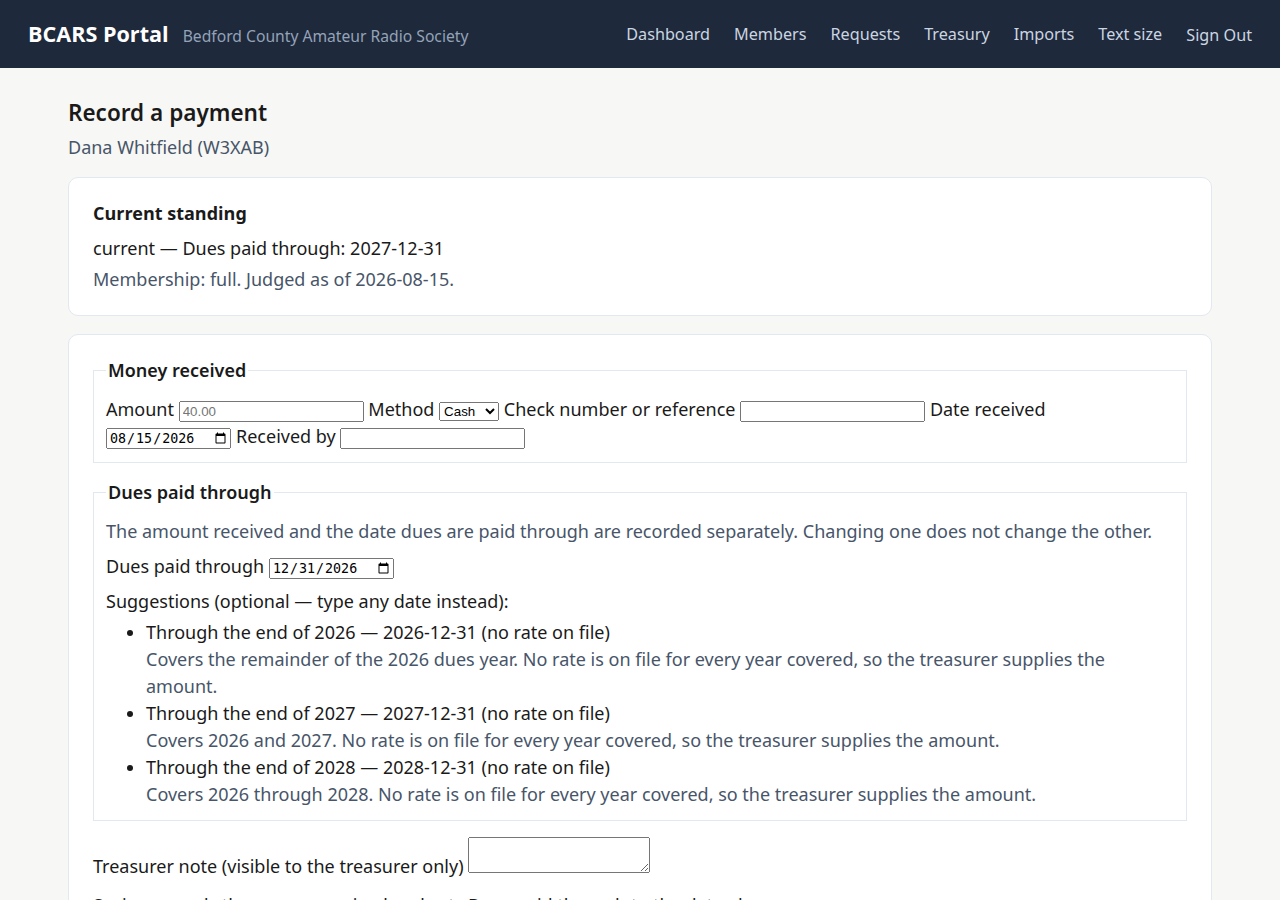
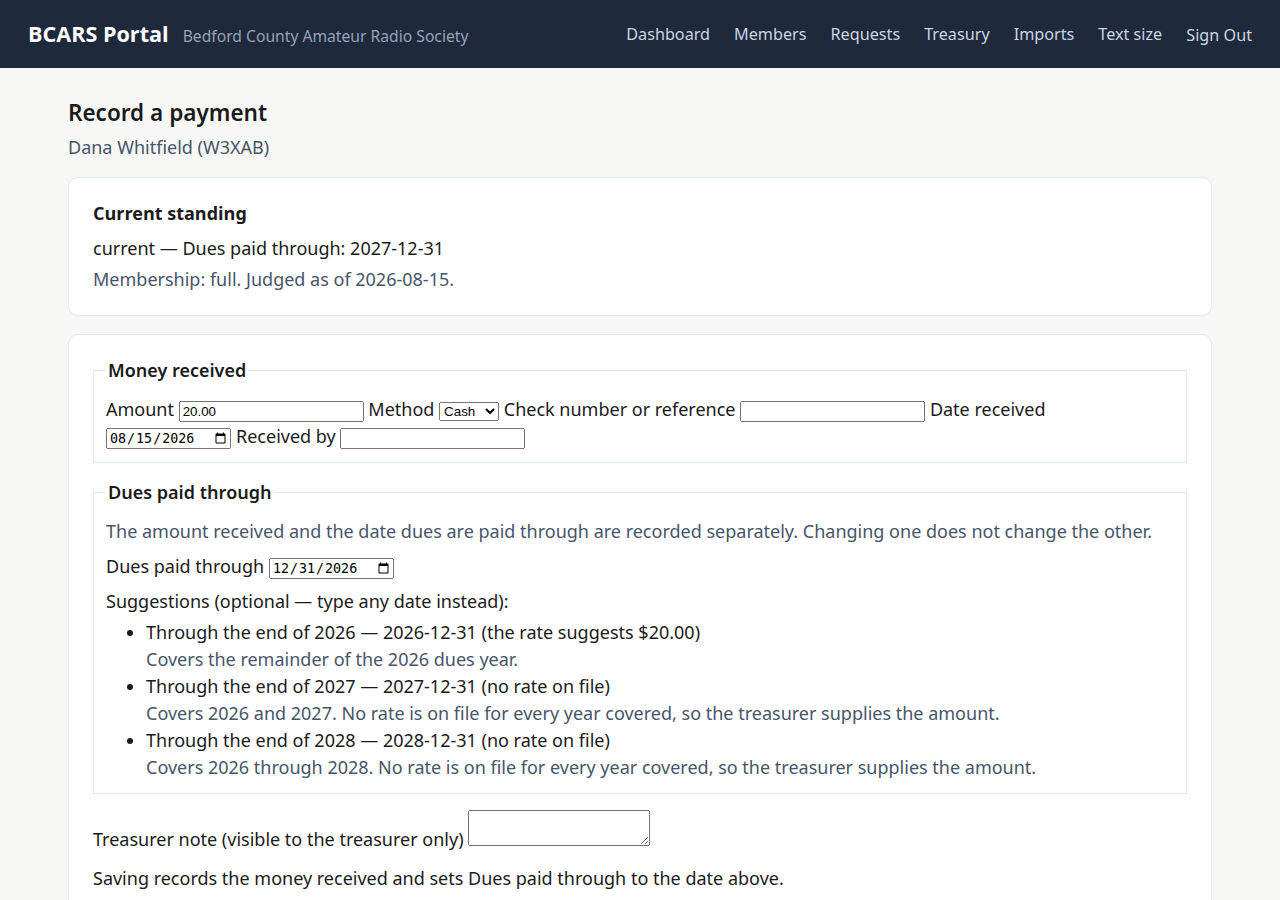
fix(treasury): suggest the configured dues rate, not a literal $40 (i95)
The amount box on the payment grid and the add-a-row form carried
placeholder="40.00" as a literal in the template. Nothing read
dues_rates, so a club whose annual dues are $20 was shown $40 in every
empty amount box — the number a treasurer entering a meeting's takings
reads as "the usual".

The placeholder now comes from the club's configured rate, and is empty
when no rate is configured: a suggestion nobody configured is what caused
this, so the absence of one asks the treasurer to type what they actually
took.

The year is taken from the coverage the batch is prefilling, falling back
to today. A batch made up at a December meeting collects next year's
dues, and next year's rate is the one being taken.

seed-demo now configures BCARS's actual $20 rate. Without it the demo
shows an empty placeholder and a worksheet reading "$not set", so a
reviewer sees neither feature working — the symptom bcars-portal-2za
describes, which this does not otherwise fix.

Mutation-checked: restoring the literal fails the rate assertions, and
ignoring the coverage year fails the December case. The first draft of
these tests passed vacuously by asserting on a page that renders no
amount box at all — the box only exists once the treasurer has searched
for the member they are recording, so the tests now search first.

Claude-Session: https://claude.ai/code/session_01RzWxLHcnAsSpNok5Xey35r

Changed region(s): [[0.0625, 0.6844, 0.875, 0.9956]]

diff --git a/internal/web/templates/batch_detail.html b/internal/web/templates/batch_detail.html
@@ -58,7 +58,7 @@
                         <input type="hidden" name="membership_id" value="{{.MembershipID}}">
                         <input type="hidden" name="idempotency_key" value="{{$.IdempotencyKey}}-{{.MembershipID}}">
                         <input type="text" name="amount" value="{{$.Defaults.Amount}}"
-                               inputmode="decimal" placeholder="40.00" aria-label="Amount for {{.DisplayName}}" required>
+                               inputmode="decimal" placeholder="{{$.Suggested}}" aria-label="Amount for {{.DisplayName}}" required>
                         <select name="method" aria-label="Method for {{.DisplayName}}">
                             <option value="cash">Cash</option>
                             <option value="check">Check</option>
@@ -143,7 +143,7 @@
                         <input type="hidden" name="membership_id" value="{{.MembershipID}}">
                         <input type="hidden" name="idempotency_key" value="{{$.IdempotencyKey}}-{{.MembershipID}}">
                         <input type="text" name="amount" value="{{$.Defaults.Amount}}"
-                               inputmode="decimal" placeholder="40.00" aria-label="Amount" required>
+                               inputmode="decimal" placeholder="{{$.Suggested}}" aria-label="Amount" required>
                         <select name="method" aria-label="Method">
                             <option value="cash">Cash</option>
                             <option value="check">Check</option>

diff --git a/internal/web/batches_test.go b/internal/web/batches_test.go
@@ -6,6 +6,7 @@ import (
 	"strconv"
 	"strings"
 	"testing"
+	"time"
 
 	"github.com/stretchr/testify/assert"
 	"github.com/stretchr/testify/require"
@@ -399,4 +400,84 @@ func visibleProse(html string) string {
 		}
 	}
 	return out.String()
+}
+
+// The amount box's placeholder is read as "the usual amount". It used to be a
+// literal 40.00 in the template, which no configuration produced: a club whose
+// annual dues are $20 was shown $40 in every empty box on the grid and on the
+// add-a-row form (bcars-portal-i95).
+
+// setDuesRate configures the club's annual rate for a year, the way the rate
+// screen does.
+func setDuesRate(t *testing.T, e *testEnv, year int64, cents int64) {
+	t.Helper()
+	_, err := e.h.db.Exec(
+		`INSERT INTO dues_rates (year, amount_cents, set_by, set_at)
+		 VALUES (?, ?, 1, strftime('%Y-%m-%dT%H:%M:%fZ','now'))
+		 ON CONFLICT(year) DO UPDATE SET amount_cents = excluded.amount_cents`,
+		year, cents)
+	require.NoError(t, err)
+}
+
+func TestTheAmountPlaceholderIsTheConfiguredDuesRate(t *testing.T) {
+	for _, tc := range []struct {
+		name  string
+		cents int64
+		want  string
+	}{
+		{"a twenty dollar club", 2000, "20.00"},
+		{"a thirty-five dollar club", 3500, "35.00"},
+	} {
+		t.Run(tc.name, func(t *testing.T) {
+			e := setupHandlerWithRoles(t, "treasurer")
+			setDuesRate(t, e, int64(time.Now().UTC().Year()), tc.cents)
+			seedMember(t, e, "Plain Member", "W3PLN", "2020-12-31")
+			id := openBatch(t, e, "Meeting night")
+
+			// Searched, because the amount box only exists once the treasurer
+			// has found the member they are recording a payment for.
+			body := e.body(t, "GET", "/admin/treasury/batches/"+itoa(id)+"?member=Plain", "")
+
+			assert.Containsf(t, body, `placeholder="`+tc.want+`"`,
+				"the grid should suggest the configured rate")
+			assert.NotContains(t, body, `placeholder="40.00"`,
+				"the grid is still advertising a rate nobody configured")
+		})
+	}
+}
+
+func TestNoDuesRateMeansNoSuggestion(t *testing.T) {
+	e := setupHandlerWithRoles(t, "treasurer")
+	seedMember(t, e, "Plain Member", "W3PLN", "2020-12-31")
+	id := openBatch(t, e, "Meeting night")
+
+	body := e.body(t, "GET", "/admin/treasury/batches/"+itoa(id)+"?member=Plain", "")
+
+	assert.Contains(t, body, `placeholder=""`,
+		"an unconfigured club should be asked for the amount, not given a made-up one")
+	assert.NotContains(t, body, `placeholder="40.00"`)
+}
+
+// TestTheSuggestionFollowsTheCoverageYear covers the December case: a batch made
+// up at the last meeting of the year collects next year's dues, and next year's
+// rate is the one the treasurer is taking.
+func TestTheSuggestionFollowsTheCoverageYear(t *testing.T) {
+	e := setupHandlerWithRoles(t, "treasurer")
+	seedMember(t, e, "Plain Member", "W3PLN", "2020-12-31")
+
+	thisYear := int64(time.Now().UTC().Year())
+	setDuesRate(t, e, thisYear, 2000)
+	setDuesRate(t, e, thisYear+1, 2500)
+
+	id := openBatch(t, e, "December meeting")
+	w := e.postForm(t, "/admin/treasury/batches/"+itoa(id)+"/defaults", url.Values{
+		"version":              {batchVersion(t, e, id)},
+		"label":                {"December meeting"},
+		"default_paid_through": {strconv.FormatInt(thisYear+1, 10) + "-12-31"},
+	})
+	require.Equal(t, http.StatusSeeOther, w.Code)
+
+	body := e.body(t, "GET", "/admin/treasury/batches/"+itoa(id)+"?member=Plain", "")
+	assert.Contains(t, body, `placeholder="25.00"`,
+		"a batch covering next year should suggest next year's rate")
 }

diff --git a/internal/web/batches.go b/internal/web/batches.go
@@ -119,11 +119,17 @@ type totalsView struct {
 }
 
 type batchDetailData struct {
-	Batch      batchView
-	Version    int64
-	Totals     totalsView
-	Entries    []entryView
+	Batch   batchView
+	Version int64
+	Totals  totalsView
+	Entries []entryView
+	// Defaults.Amount and PaidThrough are the batch's own saved defaults, which
+	// prefill each new row as a VALUE. Suggested is the club's configured annual
+	// dues rate and is only ever a placeholder: the grid used to advertise a
+	// literal "40.00" that no configuration produced, so a club whose dues are
+	// $20 was shown $40 in every empty amount box (bcars-portal-i95).
 	Defaults   struct{ Amount, PaidThrough string }
+	Suggested  string
 	Search     string
 	Candidates []dues.Standing
 	CanPost    bool
@@ -217,6 +223,7 @@ func (h *Handler) batchDetailData(r *http.Request, p *authz.Principal, id int64)
 		data.Defaults.Amount = treasury.Cents(b.DefaultAmountCents)
 	}
 	data.Defaults.PaidThrough = b.DefaultPaidThrough
+	data.Suggested = h.suggestedDuesAmount(r, p, b.DefaultPaidThrough)
 
 	names := map[int64]string{}
 	for _, e := range b.Entries {
@@ -336,6 +343,39 @@ func (h *Handler) loadPostedReview(r *http.Request, p *authz.Principal, batchID 
 		data.Payments = append(data.Payments, view)
 	}
 	return nil
+}
+
+// suggestedDuesAmount is the club's configured annual dues rate, formatted for
+// the amount box's placeholder, or "" when no rate is configured.
+//
+// Empty is the right answer for an unconfigured club: a placeholder is read as
+// "the usual amount", and inventing one is how the grid came to advertise $40
+// to a club whose dues are $20 (bcars-portal-i95). Showing nothing asks the
+// treasurer to type what they actually took.
+//
+// The year is taken from the coverage the batch is prefilling, falling back to
+// today. A batch made up at a December meeting for next year's dues is covering
+// next year, and next year's rate is the one a treasurer is collecting.
+func (h *Handler) suggestedDuesAmount(r *http.Request, p *authz.Principal, defaultPaidThrough string) string {
+	years := []int64{int64(time.Now().UTC().Year())}
+	if len(defaultPaidThrough) >= 4 {
+		if y, err := strconv.ParseInt(defaultPaidThrough[:4], 10, 64); err == nil && y != years[0] {
+			years = append([]int64{y}, years...)
+		}
+	}
+
+	for _, year := range years {
+		rate, err := h.dues.GetRate(r.Context(), p, year)
+		if err != nil {
+			// A missing rate for one year is ordinary; a caller who may not
+			// read rates gets no suggestion at all, which is the same answer.
+			continue
+		}
+		if rate.AmountCents > 0 {
+			return treasury.Cents(rate.AmountCents)
+		}
+	}
+	return ""
 }
 
 // batchUpdateDefaults persists the values the grid prefills into a new row.

diff --git a/cmd/portalctl/seeddemo_members.go b/cmd/portalctl/seeddemo_members.go
@@ -255,6 +255,18 @@ func seedDemoMembers(d *sql.DB, actorUserID int64) error {
 		}
 	}
 
+	// The club's annual dues. Without a configured rate the payment grid offers
+	// no suggested amount and the printed worksheet says "$not set", so a
+	// reviewer sees neither feature working (bcars-portal-i95, and the symptom
+	// bcars-portal-2za describes). $20 is BCARS's actual rate.
+	if _, err := d.Exec(
+		`INSERT INTO dues_rates (year, amount_cents, note, set_by, set_at)
+		 VALUES (?, 2000, 'seed-demo: development rate', ?, ?)
+		 ON CONFLICT(year) DO NOTHING`,
+		time.Now().UTC().Year(), actorUserID, time.Now().UTC().Format(time.RFC3339Nano)); err != nil {
+		return fmt.Errorf("seed dues rate: %w", err)
+	}
+
 	fmt.Printf("\n  %d synthetic members seeded (Bedford County, PA — all invented).\n", len(demoMembers))
 	for _, m := range demoMembers {
 		if m.LinkUserEmail != "" {

diff --git a/cmd/portalctl/seeddemo_members_test.go b/cmd/portalctl/seeddemo_members_test.go
@@ -297,3 +297,20 @@ func TestSeededOfficersAreMembers(t *testing.T) {
 		})
 	}
 }
+
+// TestSeedDemoConfiguresTheClubDuesRate keeps the demo showing the two features
+// that read a rate. Without one the payment grid offers no suggested amount and
+// the printed worksheet says "$not set", so a reviewer looking at either sees a
+// blank where the feature should be (bcars-portal-i95).
+func TestSeedDemoConfiguresTheClubDuesRate(t *testing.T) {
+	d := newMigratedDB(t)
+	t.Setenv(authn.PepperEnvVar, testPepper)
+	_ = captureStdout(t, func() { require.NoError(t, seedDemo(d)) })
+
+	var cents int64
+	require.NoError(t, d.QueryRow(
+		`SELECT amount_cents FROM dues_rates WHERE year = ?`,
+		time.Now().UTC().Year()).Scan(&cents),
+		"the current year needs a configured rate or the treasury screens read blank")
+	assert.Equal(t, int64(2000), cents, "BCARS dues are $20")
+}
